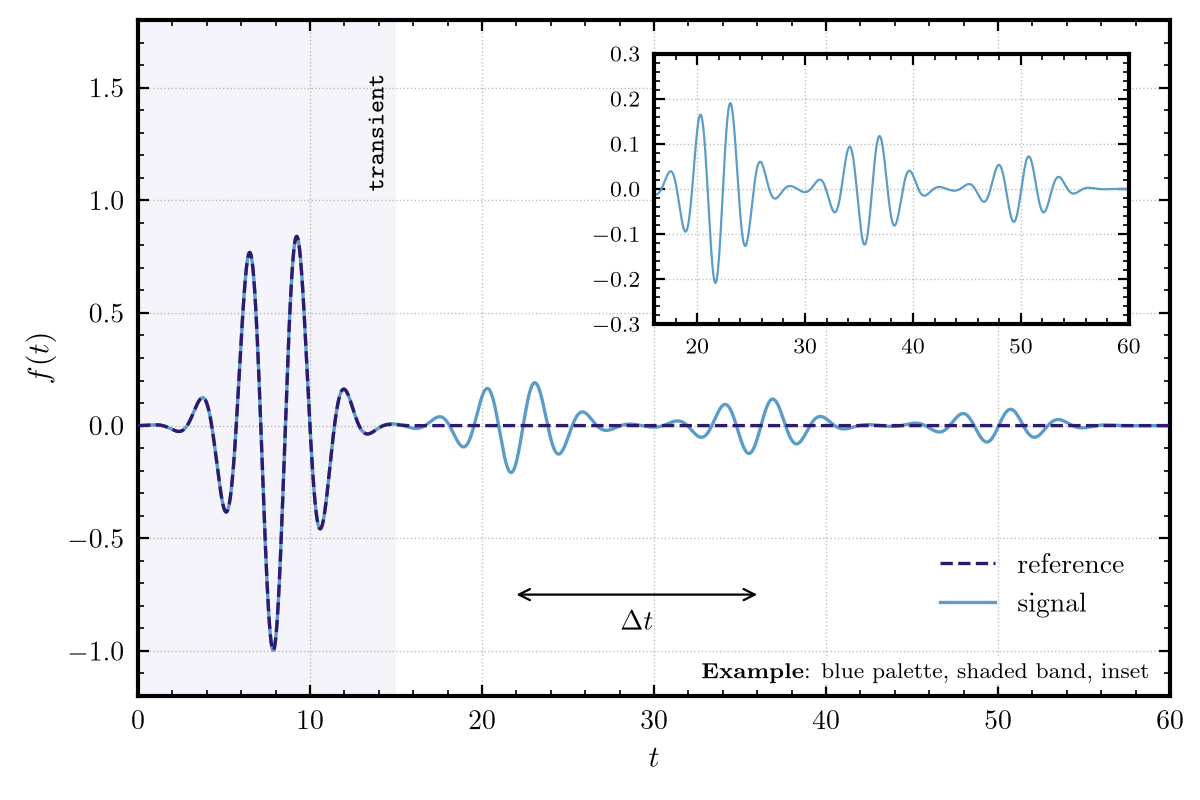
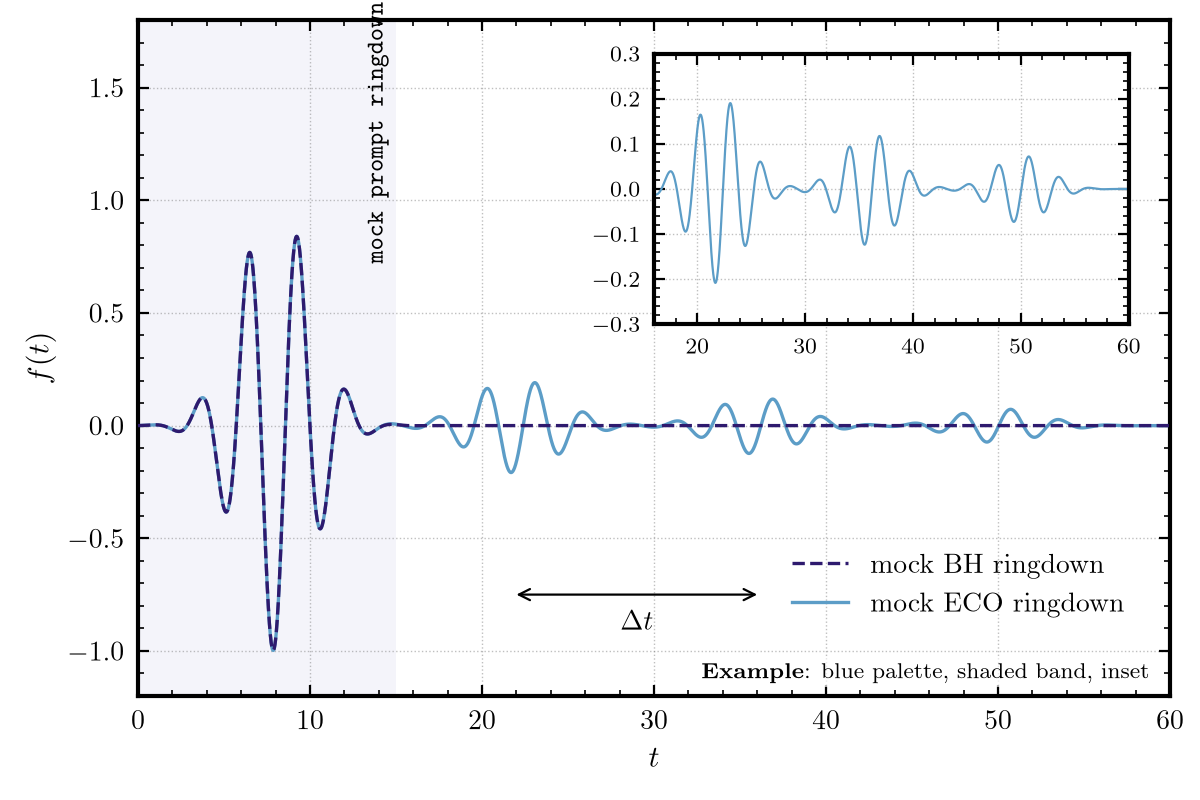
Fixed typos and labels.

Changed region(s): [[0.6475, 0.6875, 0.925, 0.7812], [0.3083, 0.0, 0.3392, 0.25], [0.3083, 0.2812, 0.3392, 0.3438]]

diff --git a/src/amore/examples.py b/src/amore/examples.py
@@ -4,6 +4,15 @@ The line plots and the colour maps have one plot area (amore.figure), saved with
 The corner plot, the standard map and the pendulum strip have their own sizes.
 
 Run: python -m amore.examples   (needs LaTeX, scipy and corner; see README.md)
+
+Copyright (c) 2026 Subhodeep Sarkar. Licence: MIT (LICENSE-MIT.txt in the repository root).
+
+    Name:         Subhodeep Sarkar
+    Affiliation:  IIT Gandhinagar
+    Contact:      subhodeep.sarkar1@gmail.com
+    Date:         August 2026
+    GitHub:       https://github.com/subhodeeps/amore.mplstyle
+    Website:      https://subhodeeps.github.io/
 """
 from pathlib import Path
 
@@ -25,7 +34,7 @@ def example_tag(feature):
 
 
 def wave_packet():
-    """Blue palette: a signal and a reference, a shaded transient, an inset and an arrow."""
+    """Blue palette: a mock BH ringdown signal and a mock echo signal from an ECO, a shaded prompt rigdown region, an inset and an arrow. Loosley based on Fig. 9 of Living Rev.Rel. 22 (2019) 1, 4. Needless to say, this is not the output of an actual simulation, it is a schematic plot. """
     c = amore.palette("blue")
     t = np.linspace(0, 60, 6000)
     first = np.exp(-((t - 8) / 3) ** 2) * np.sin(2.2 * t)
@@ -33,11 +42,11 @@ def wave_packet():
                 for k in range(1, 4))
 
     fig, ax = amore.figure()
-    ax.plot(t, first, color=c["ink"], ls="--", label="reference", zorder=3)
-    ax.plot(t, first + later, color=c["main"], label="signal", zorder=2)
+    ax.plot(t, first, color=c["ink"], ls="--", label="mock BH ringdown", zorder=3)
+    ax.plot(t, first + later, color=c["main"], label="mock ECO ringdown", zorder=2)
     ax.set_xlim(0, 60)
     ax.set_ylim(-1.2, 1.8)
-    amore.shade(ax, 0, 15, "transient", y=1.3, palette="blue")
+    amore.shade(ax, 0, 15, "mock prompt ringdown", y=1.3, palette="blue")
     ax.annotate("", xy=(22, -0.75), xytext=(36, -0.75),
                 arrowprops=dict(arrowstyle="<->", lw=0.8, color="black", shrinkA=0, shrinkB=0))
     ax.text(29, -0.82, r"$\Delta t$", ha="center", va="top", fontsize=10)

diff --git a/src/amore/__init__.py b/src/amore/__init__.py
@@ -21,7 +21,7 @@ Copyright (c) 2026 Subhodeep Sarkar. Licence: MIT (LICENSE-MIT.txt in the reposi
     Affiliation:  IIT Gandhinagar
     Contact:      subhodeep.sarkar1@gmail.com
     Date:         August 2026
-    GitHub:       https://github.com/subhodeeps/amore
+    GitHub:       https://github.com/subhodeeps/amore.mplstyle
     Website:      https://subhodeeps.github.io/
 """
 from pathlib import Path

diff --git a/README.md b/README.md
@@ -1,6 +1,6 @@
 # amore
 
-An opinionated Matplotlib plotting style developed over the last couple of years while working on figures for my research. It features LaTeX-rendered text, heavy plot frames, inward ticks, 32 muted colours across 8 palettes, custom colormaps, and small helper functions for shaded regions, insets, colour bars, and figure saving.
+This repository presents `amore`, an opinionated Matplotlib plotting style developed over the last couple of years while working on figures for my research. It features LaTeX-rendered text, heavy plot frames, inward ticks, 32 muted colours across 8 palettes, custom colormaps, and small helper functions for shaded regions, insets, colour bars, and figure saving.
 
 <p align="center">
   <img src="docs/figures/amore_blue.png" width="49%" alt="Example figure in the blue palette">
@@ -127,8 +127,7 @@ Walt); MATLAB's own parula belongs to MathWorks and is not used. The docstring o
 cites its sources (papers, a blog post, a Wikimedia picture) and records how its colours were
 chosen. The Physical Review style sheet of
 [hosilva/physrev_mplstyle](https://github.com/hosilva/physrev_mplstyle) inspired the style.
-The author used Generative AI is setting up and organizing this repository
-
+The author used Generative AI in setting up and organizing this repository.
 
 ## Copying
 
